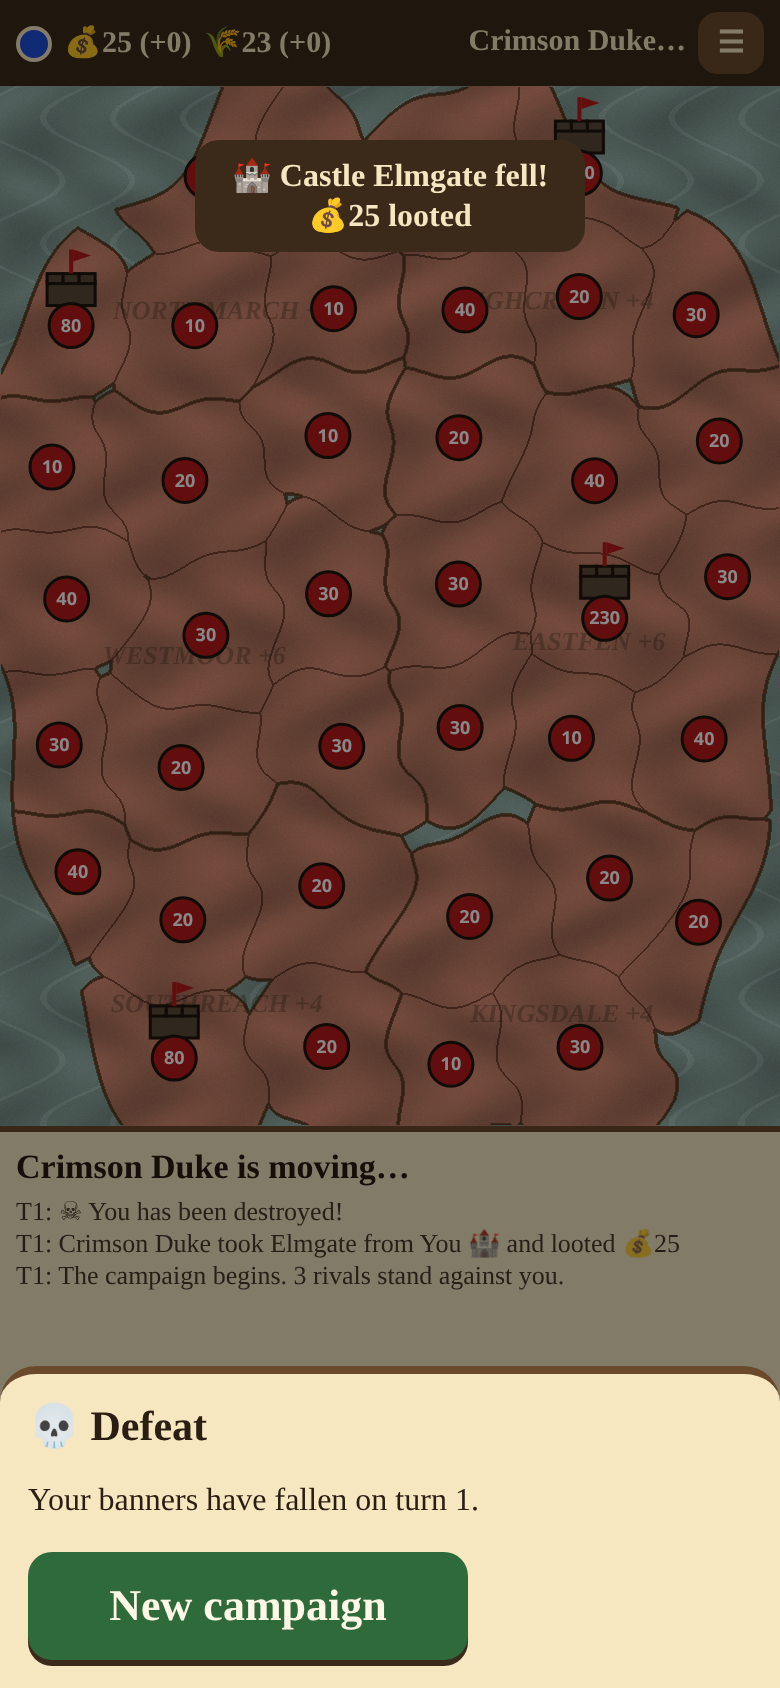
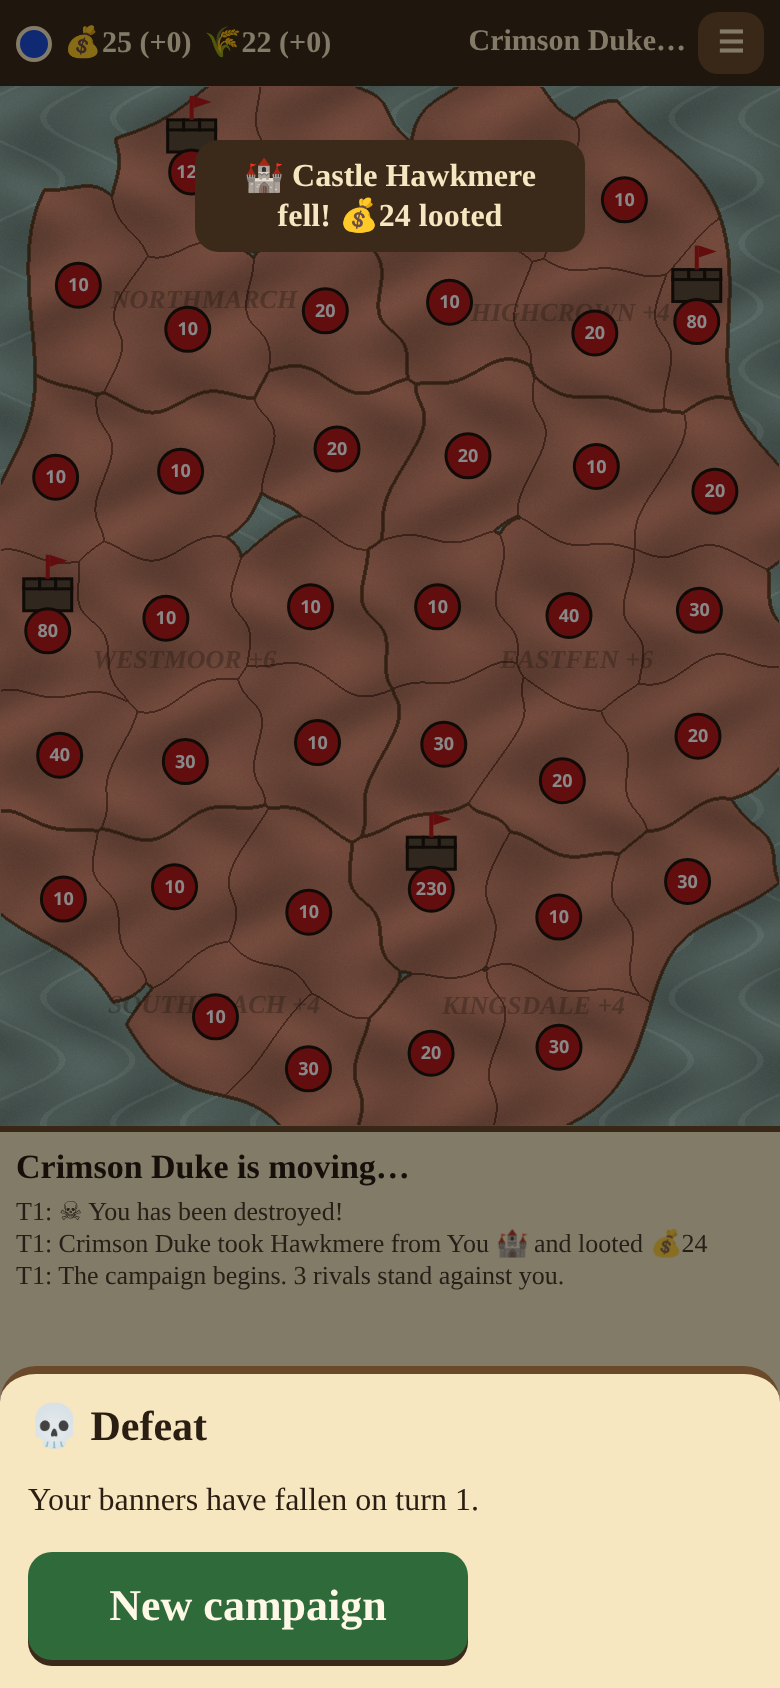
Dark slate neutrals with light outline; SW v3

diff --git a/game.js b/game.js
@@ -16,7 +16,7 @@ const COLORS=["#1d4ed8","#b91c1c","#15803d","#7e22ce","#c2410c","#0f766e"];
 const PNAMES=["You","Crimson Duke","Verdant League","Violet Throne","Amber Khan","Teal Republic"];
 const PERS=["aggressive","turtle","opportunist"];
 const PERS_IC={aggressive:"🔥 Aggressive",turtle:"🐢 Turtle",opportunist:"🦊 Opportunist"};
-const NEUT="#9a8a6a";
+const NEUT="#2b2f36";
 const SYL1=["Oak","Raven","Stone","Ash","Wolf","Iron","Mill","Thorn","Elder","Frost","Gold","Marsh","Brook","Hawk","Red","Black","Silver","Fair","Grey","Wind","Salt","Fox","Elm","Bram"];
 const SYL2=["vale","ford","hold","mere","wick","moor","fell","ton","haven","crag","field","march","gate","wood","stead","bury","holm","reach"];
 const REGN=["Northmarch","Highcrown","Westmoor","Eastfen","Southreach","Kingsdale"];
@@ -150,7 +150,7 @@ function renderMapBase(){
  const cols=G.terrs.map(t=>hex(ownerCol(t.owner)));const par=[236,220,176],sea=[150,178,170];
  for(let p=0;p<W*H;p++){const a=id[p],s=shade[p];let r,g,b;
   if(a<0){r=sea[0]*s;g=sea[1]*s;b=sea[2]*s;const y=Math.floor(p/W),x=p%W;if(Math.sin(x*.09+Math.sin(y*.05)*4)>0.96){r+=18;g+=18;b+=18}}
-  else{const c=cols[a],m=G.terrs[a].owner<0?.25:.42;r=(par[0]*(1-m)+c[0]*m)*s;g=(par[1]*(1-m)+c[1]*m)*s;b=(par[2]*(1-m)+c[2]*m)*s}
+  else{const c=cols[a],m=G.terrs[a].owner<0?.12:.42;r=(par[0]*(1-m)+c[0]*m)*s;g=(par[1]*(1-m)+c[1]*m)*s;b=(par[2]*(1-m)+c[2]*m)*s}
   const v=bd[p];if(v==1){r*=.62;g*=.55;b*=.5}else if(v>=2){r=r*.3+40;g=g*.25+28;b=b*.2+18;if(v==5||v==4){r=r*.6+60;g=g*.6+45;b=b*.6+30}}
   d[p*4]=r;d[p*4+1]=g;d[p*4+2]=b;d[p*4+3]=255}
  mapImg=img;
@@ -459,7 +459,7 @@ function bLoop(ts){if(!CB)return;const B=CB;
 function shape(c,t,x,y,col){c.fillStyle=col;c.beginPath();
  if(t=="C"){c.rect(x-2.6,y-2.6,5.2,5.2)}else if(t=="K"){c.moveTo(x,y-3.4);c.lineTo(x+3,y+2.4);c.lineTo(x-3,y+2.4);c.closePath()}
  else if(t=="H"){c.moveTo(x,y-4);c.lineTo(x+4,y);c.lineTo(x,y+4);c.lineTo(x-4,y);c.closePath()}
- else if(t=="P"){c.arc(x,y,1.8,0,7)}else c.arc(x,y,2.6,0,7);c.fill();
+ else if(t=="P"){c.arc(x,y,1.8,0,7)}else c.arc(x,y,2.6,0,7);c.fill();if(col==NEUT){c.strokeStyle="#e8edf2";c.lineWidth=.9;c.stroke()}
  if(t=="B"||t=="L"){c.strokeStyle="#fff";c.lineWidth=t=="L"?1.4:.8;c.beginPath();c.arc(x,y,t=="L"?3.6:3,0,7);c.stroke()}
  if(t=="S"){c.strokeStyle="#000a";c.lineWidth=.8;c.beginPath();c.moveTo(x-2,y-2);c.lineTo(x+2,y+2);c.stroke()}}
 function drawBattle(){const B=CB,c=bx,s=bc.width/FW;c.setTransform(1,0,0,1,0,0);c.drawImage(grass,0,0,bc.width,bc.height);c.setTransform(s,0,0,s,0,0);

diff --git a/index.html b/index.html
@@ -57,8 +57,8 @@ table{border-collapse:collapse;font-size:14px}td,th{padding:3px 6px;text-align:l
  <div id="installHelp" class="hidden" style="background:#fff8e6;padding:10px;border-radius:12px">Tap Chrome's <b>⋮</b> menu → <b>Install app</b> / <b>Add to Home screen</b><br><small>(iPhone: Share ⬆ → Add to Home Screen)</small><br><button class="b sm" id="helpOk">OK</button></div>
 </div>
 <div id="toast" style="opacity:0"></div>
-<script src="game.js?v=2"></script>
-<script>if('serviceWorker'in navigator&&location.protocol!=='file:')navigator.serviceWorker.register('sw.js?v=2');
+<script src="game.js?v=3"></script>
+<script>if('serviceWorker'in navigator&&location.protocol!=='file:')navigator.serviceWorker.register('sw.js?v=3');
 let deferredPrompt=null;const ib=document.getElementById("installBtn"),hp=document.getElementById("installHelp");
 const standalone=()=>matchMedia("(display-mode: standalone)").matches||matchMedia("(display-mode: fullscreen)").matches||navigator.standalone;
 if(standalone())ib.classList.add("hidden");

diff --git a/sw.js b/sw.js
@@ -1,6 +1,6 @@
 // Network-first service worker, versioned cache; falls back to cache offline.
-const VER="2",CACHE="dod-v"+VER;
-const SHELL=["./","index.html","game.js?v=2","manifest.webmanifest","icons/icon-192.png","icons/icon-512.png","icons/maskable-512.png"];
+const VER="3",CACHE="dod-v"+VER;
+const SHELL=["./","index.html","game.js?v=3","manifest.webmanifest","icons/icon-192.png","icons/icon-512.png","icons/maskable-512.png"];
 self.addEventListener("install",e=>{e.waitUntil(caches.open(CACHE).then(c=>c.addAll(SHELL.map(u=>new Request(u,{cache:"reload"})))).then(()=>self.skipWaiting()))});
 self.addEventListener("activate",e=>{e.waitUntil(caches.keys().then(ks=>Promise.all(ks.filter(k=>k.startsWith("dod-")&&k!==CACHE).map(k=>caches.delete(k)))).then(()=>self.clients.claim()))});
 self.addEventListener("fetch",e=>{const r=e.request;if(r.method!=="GET"||new URL(r.url).origin!==location.origin)return;

diff --git a/test.py b/test.py
@@ -30,6 +30,7 @@ with sync_playwright() as p:
   # drag a group
   bb=pg.locator("#batC").bounding_box();pg.mouse.move(bb["x"]+bb["width"]*.5,bb["y"]+bb["height"]*.85);pg.mouse.down();pg.mouse.move(bb["x"]+bb["width"]*.3,bb["y"]+bb["height"]*.8,steps=5);pg.mouse.up()
   pg.screenshot(path="screenshots/3-deployment.png")
+  ok("neutral color is dark slate",E("ownerCol(-1)")=="#2b2f36");pg.screenshot(path="screenshots/13-neutral-dark-deploy.png")
   pg.click("#fightB");pg.click("[data-g='-2']");pg.click("[data-cmd=advance]");E("bSpeed=4");pg.wait_for_timeout(5000);pg.screenshot(path="screenshots/4-mid-battle.png")
   ok("battle running",E("__B.t")>3 and not E("__B.over") or E("__B.over"))
   ok("arrows flew / casualties",E("__B.dots.some(d=>!d.alive)"))
